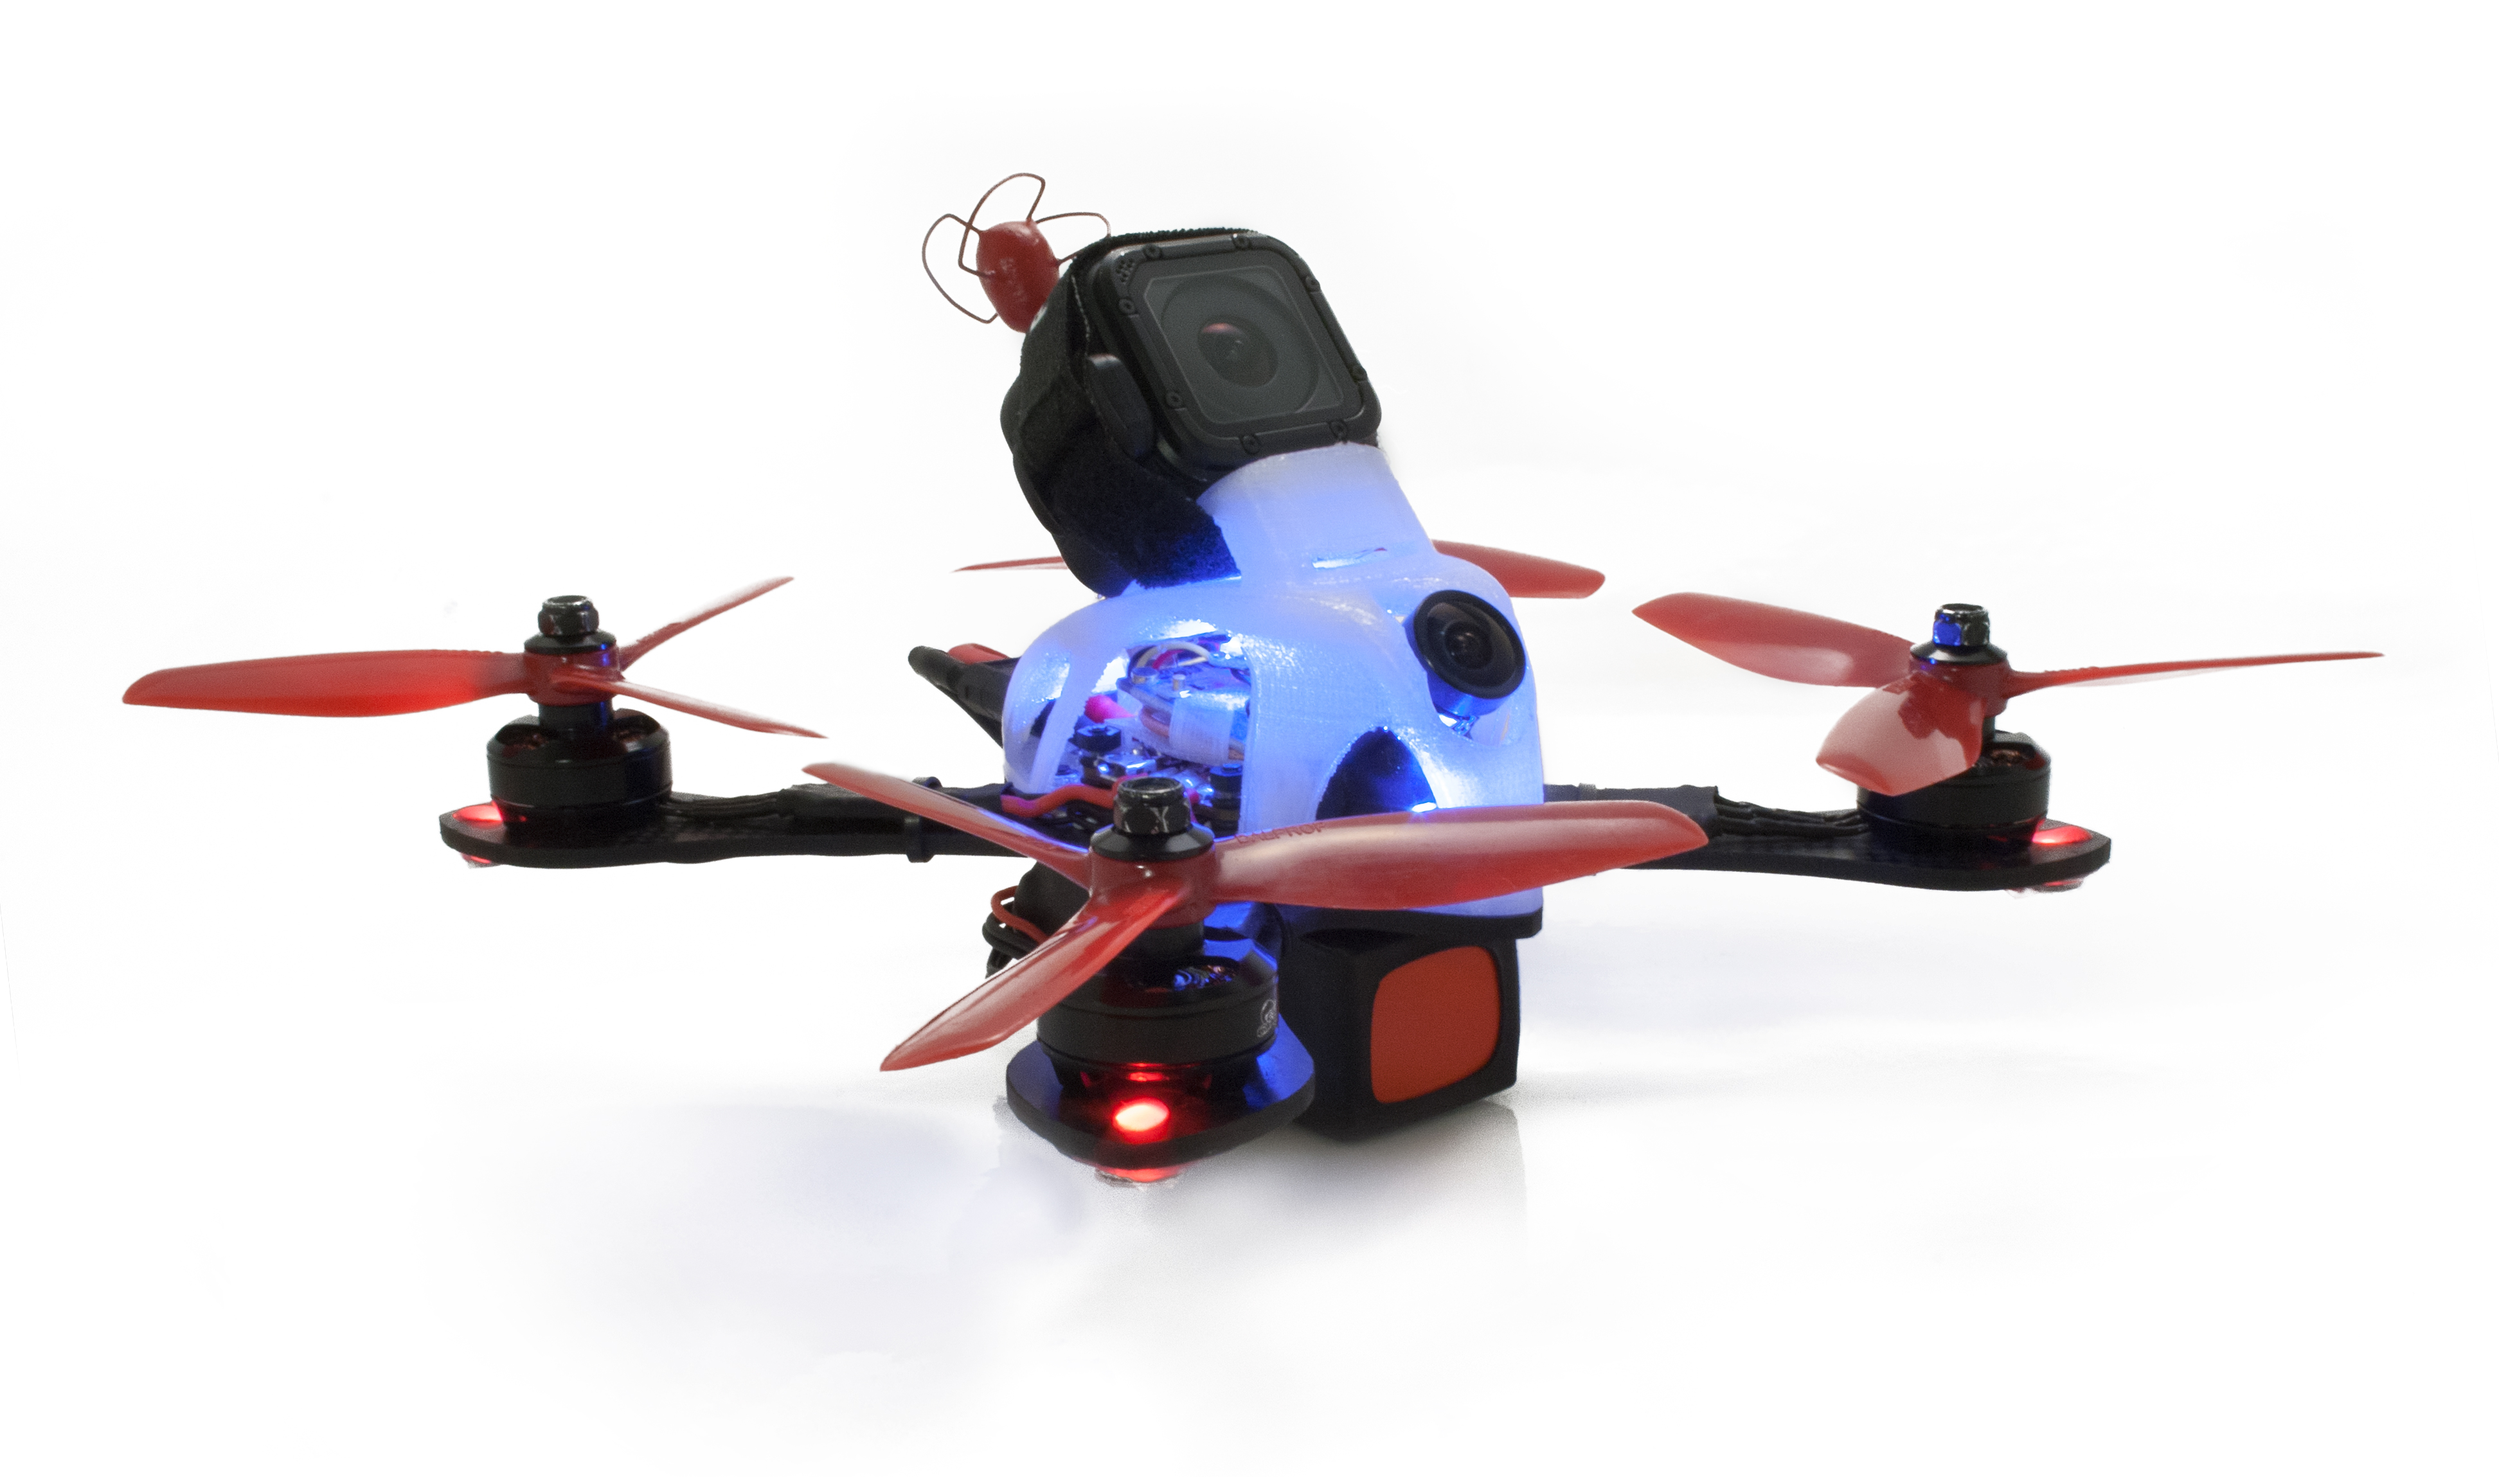
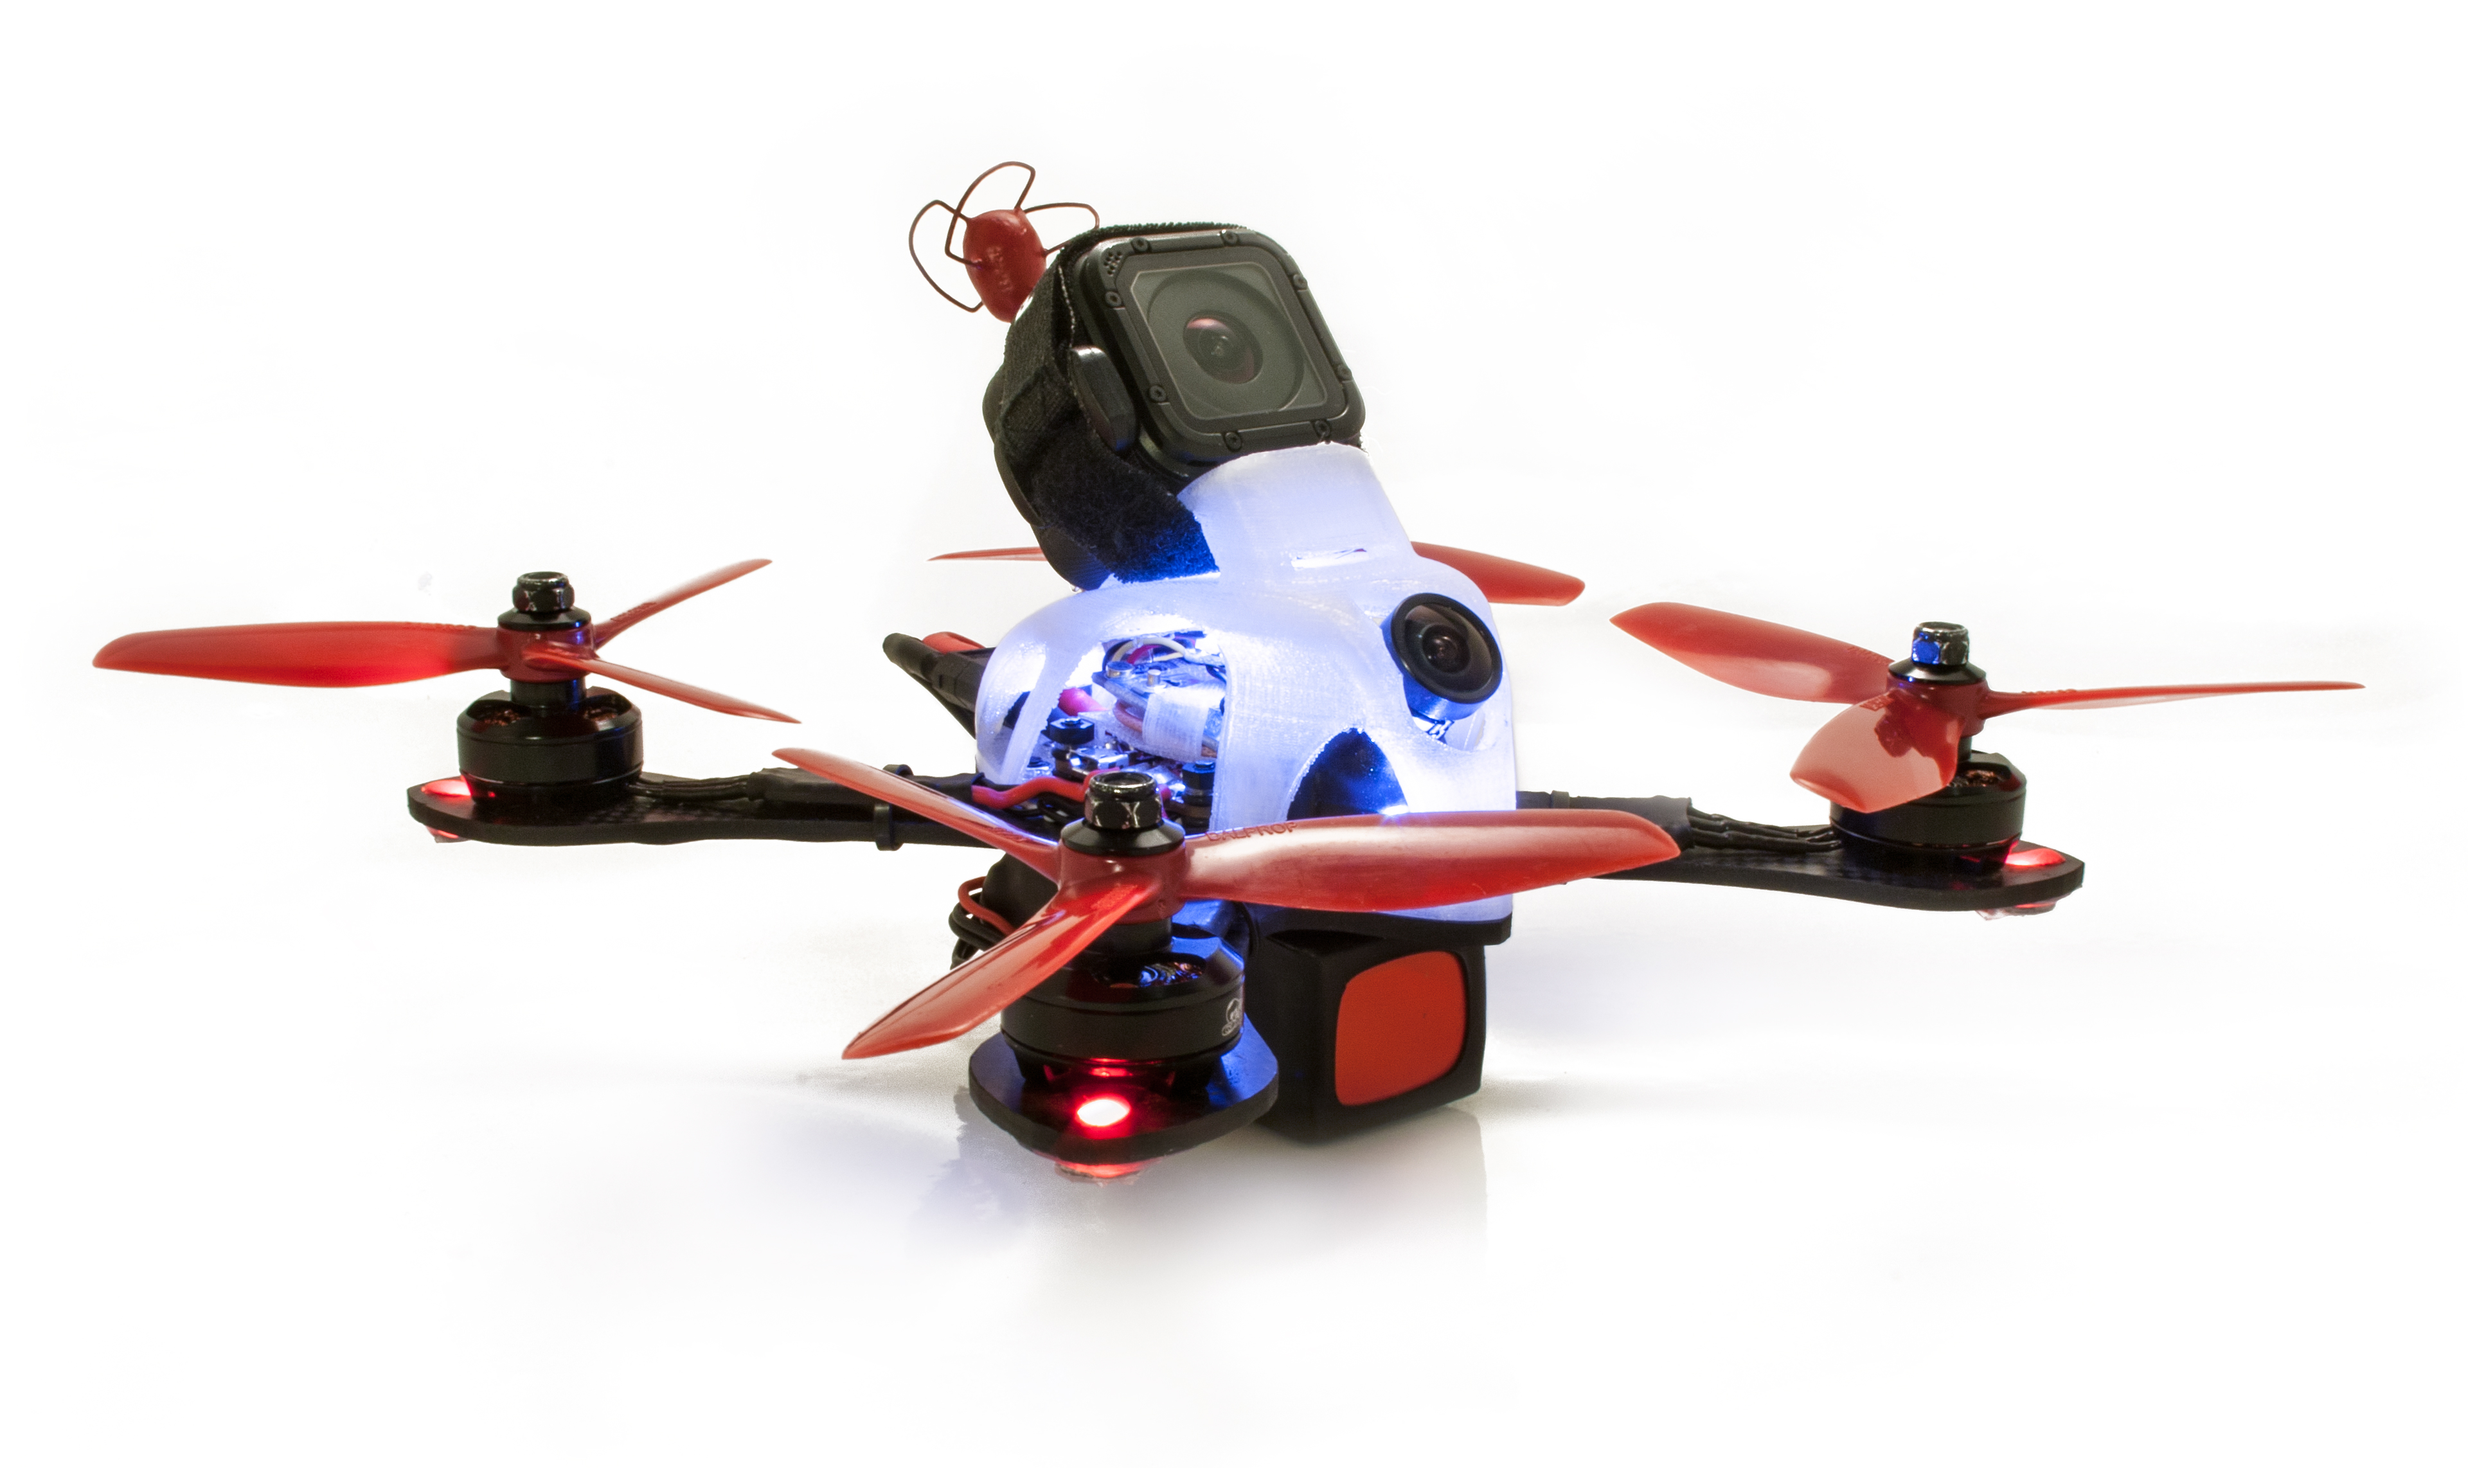
Better looking hero images

Changed region(s): [[0.0312, 0.1243, 0.9688, 0.8704]]

diff --git a/index.html b/index.html
@@ -80,7 +80,7 @@
     <div slick photoswipe itemscope class="slick--hero" itemtype="http://schema.org/ImageGallery" jqueryuioptions='{"slidesToShow": 1, "slidesToScroll": 1, "variableWidth": false, "dots": true, "prevArrow": "", "nextArrow": ""}' trackclick="Falcon 185,Photos viewed">
       <!-- Bare photos -->
       <figure itemprop="associatedMedia" itemscope itemtype="http://schema.org/ImageObject">
-        <a href="images/garuda/hero.jpg" itemprop="contentUrl" data-size="3888x2298">
+        <a href="images/garuda/hero.jpg" itemprop="contentUrl" data-size="3840x2284">
           <img src="images/garuda/hero.jpg" itemprop="thumbnail" alt="Image description">
         </a>
         <figcaption itemprop="caption description">
@@ -93,14 +93,14 @@
         </figcaption>
       </figure>
       <figure itemprop="associatedMedia" itemscope itemtype="http://schema.org/ImageObject">
-        <a href="images/garuda/hero2.jpg" itemprop="contentUrl" data-size="3551x2186">
+        <a href="images/garuda/hero2.jpg" itemprop="contentUrl" data-size="3614x2045">
           <img src="images/garuda/hero2.jpg" itemprop="thumbnail" alt="Image description">
         </a>
         <figcaption itemprop="caption description">Built-in HD camera mount</figcaption>
       </figure>
 
       <figure itemprop="associatedMedia" itemscope itemtype="http://schema.org/ImageObject">
-        <a href="images/garuda/hero3.jpg" itemprop="contentUrl" data-size="3563x2180">
+        <a href="images/garuda/hero3.jpg" itemprop="contentUrl" data-size="3585x2235">
           <img src="images/garuda/hero3.jpg" itemprop="thumbnail" alt="Image description">
         </a>
         <figcaption itemprop="caption description">Available in your favorite color</figcaption>
@@ -211,7 +211,7 @@
       <p>Check out these Garuda builds for inspiration:</p>
     </div>
     <script src="http://rotorbuilds.com/javascript/builds.js" type="text/javascript"></script>
-    <script>rb({part: 872, limit: 12, columns: 4});</script>
+    <script>rb({part: 872, limit: 4, columns: 4});</script>
   </section>
 
   <!-- Photoswipe -->
